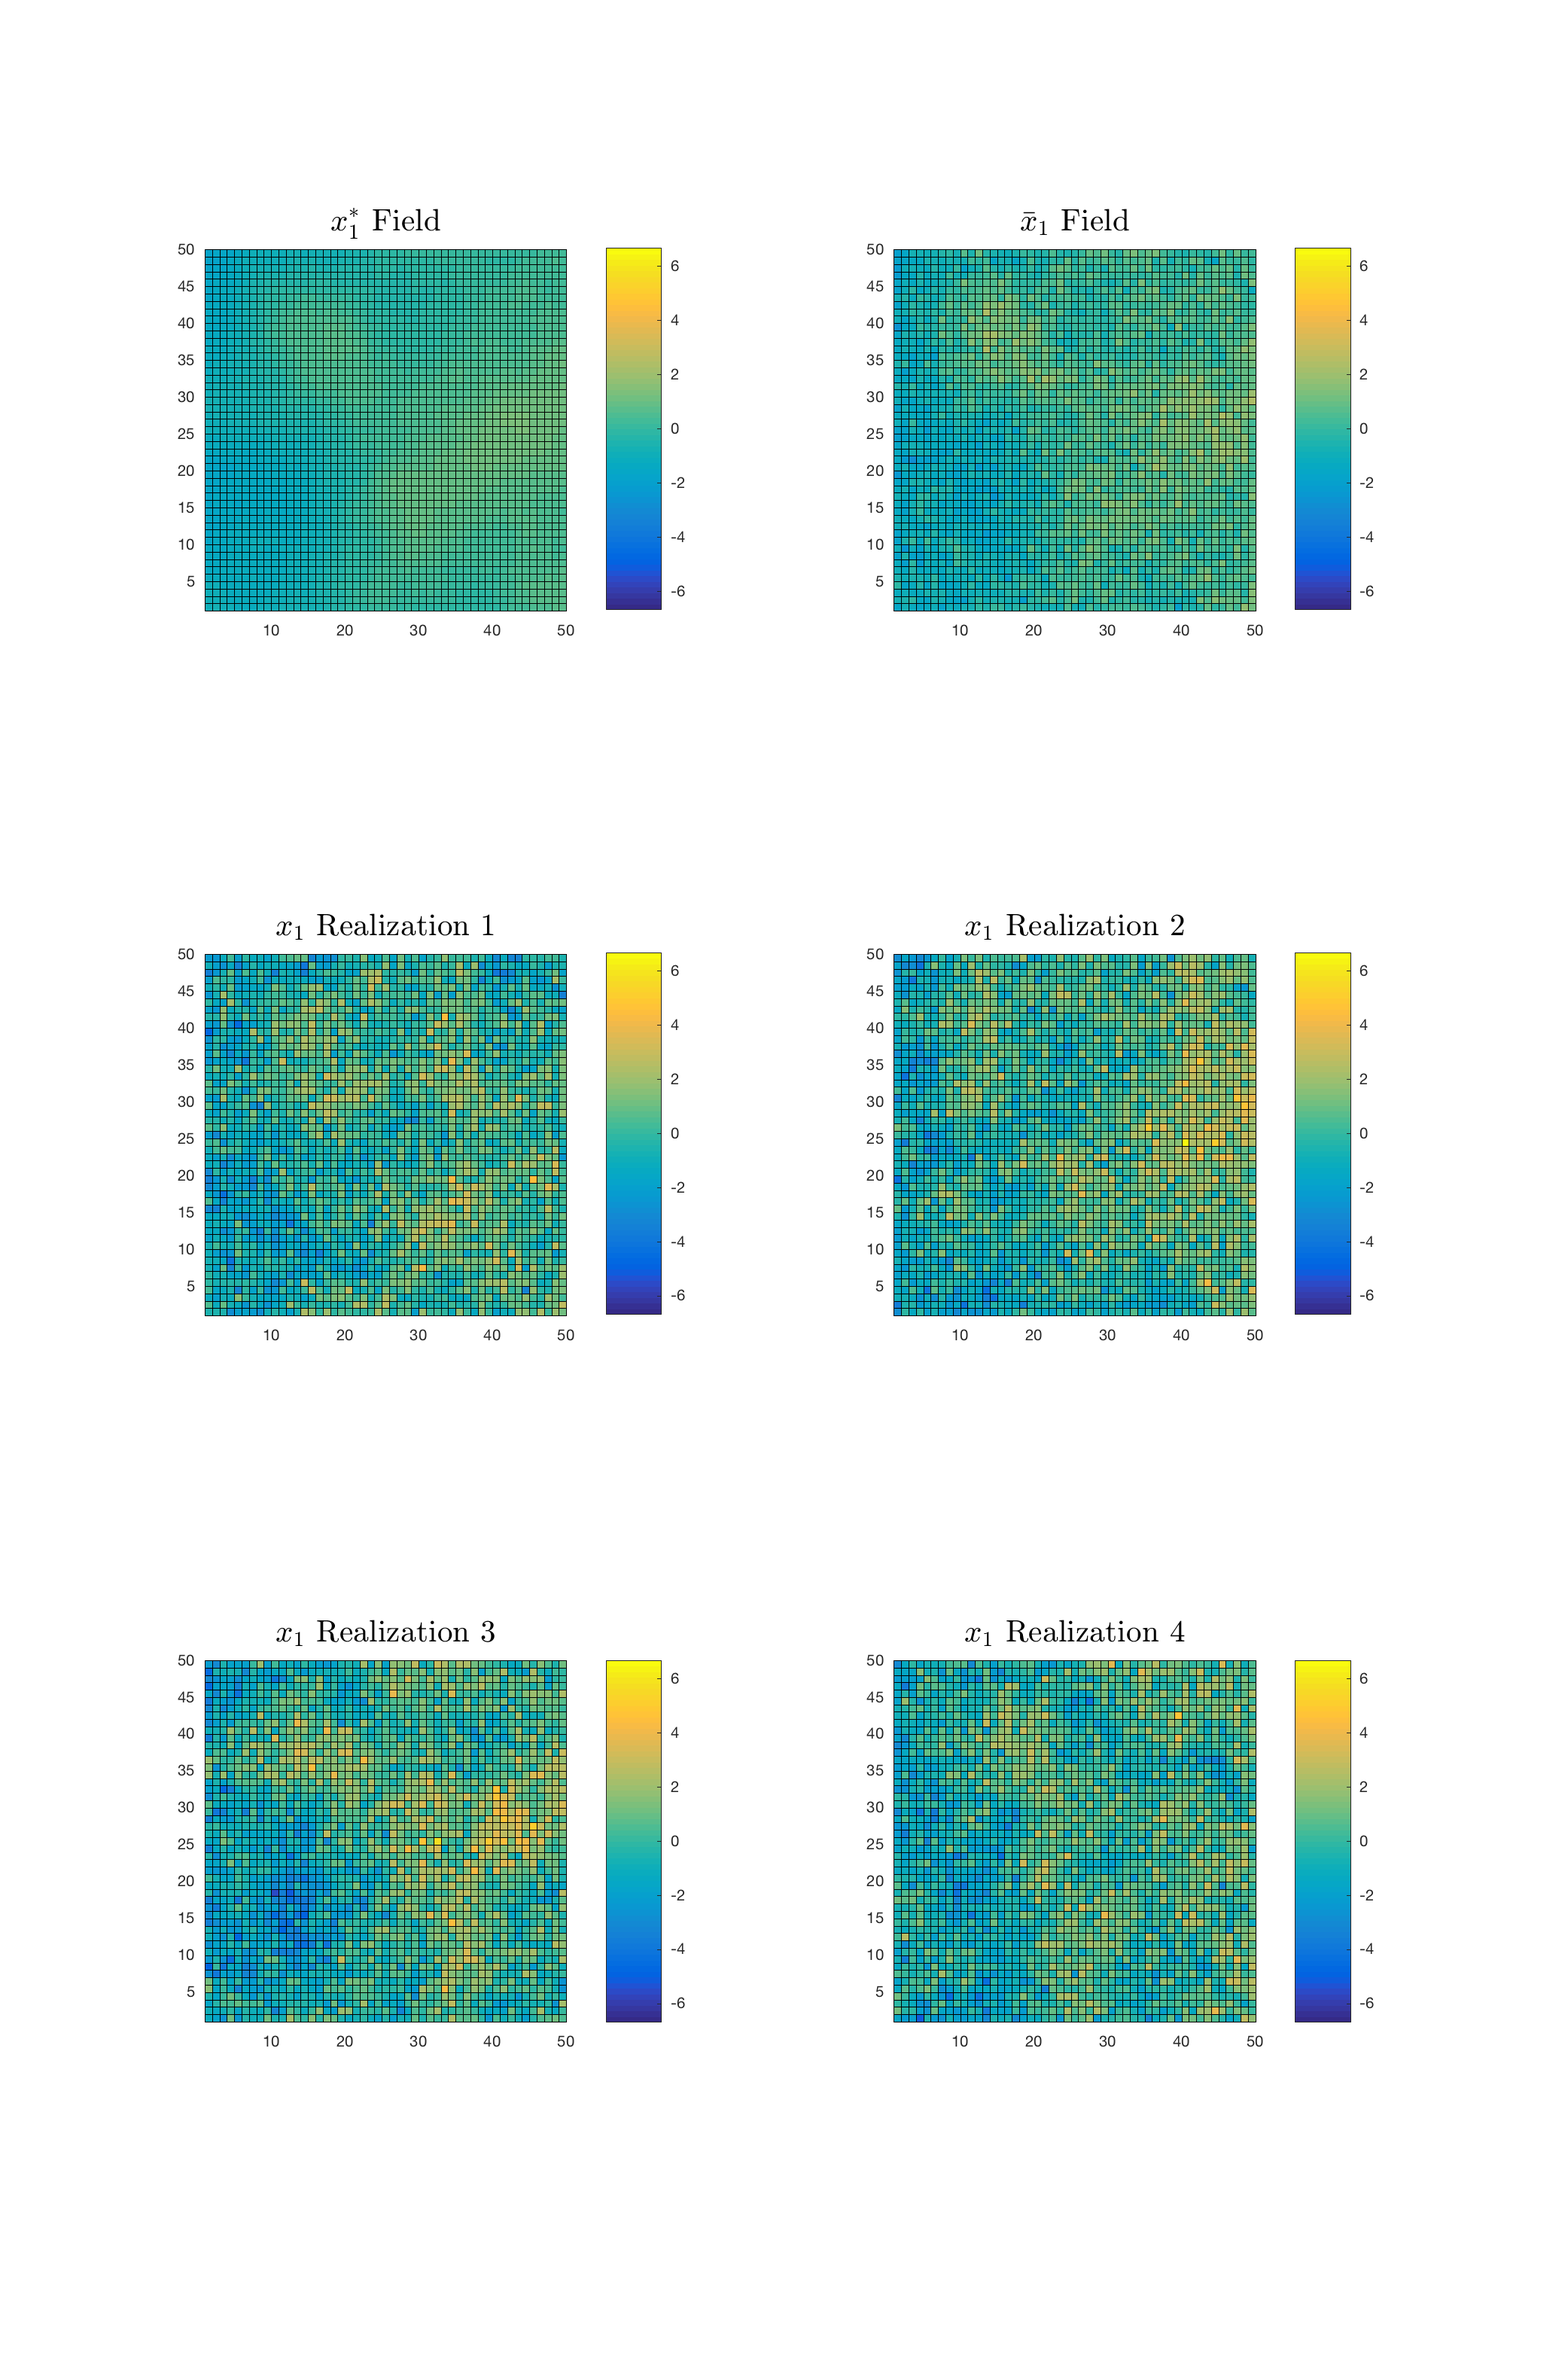
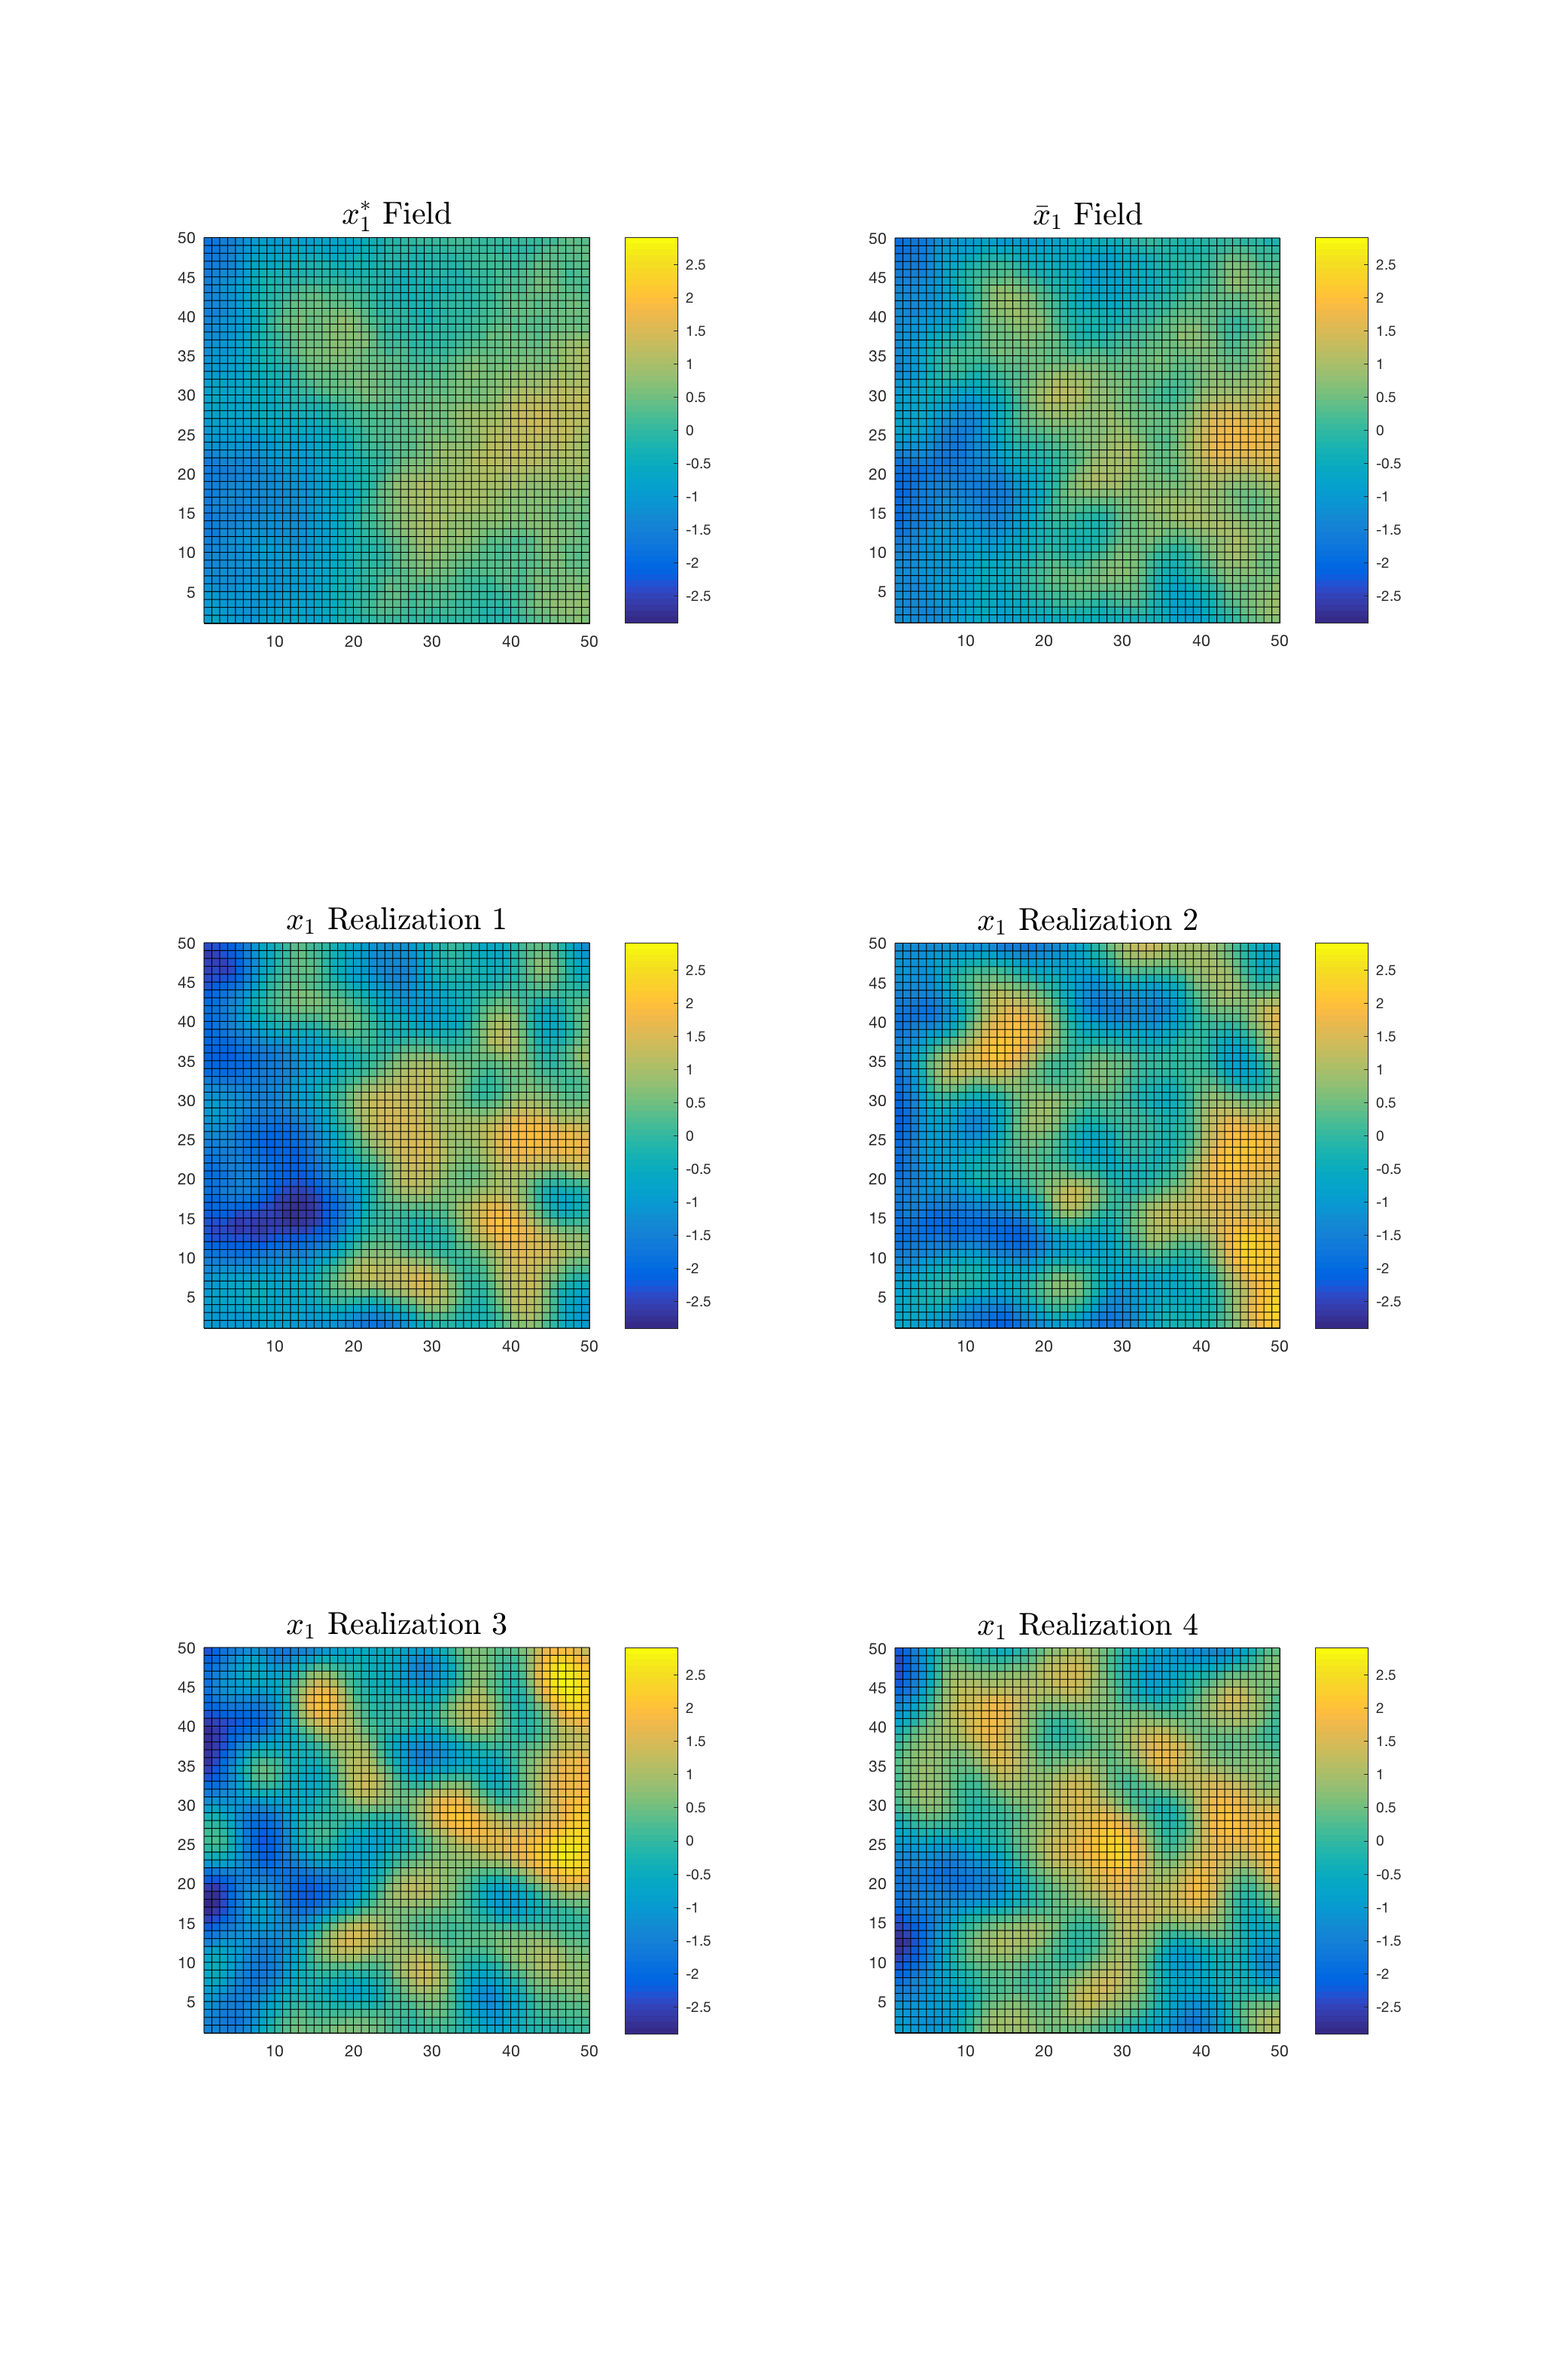
cleaning up code to make plotting run

diff --git a/code/fullProcedure.m b/code/fullProcedure.m
@@ -6,21 +6,18 @@
 % Author: Nathan Lenssen, Columbia University (lenssen@ldeo.columbia.edu)
 % D+A Testbed Version: 1.0.0 (December 6, 2017)
 
-function fullProcedure(plotting,plotDirectory,dataDirectory)
-	% load in the parameter list to the workspace
-	run('code/parameterList.m')
+addpath('code')
 
-	% run the simulation script
-	run('code/generateSimulation.m')
+% load in the parameter list to the workspace
+parameterList
 
-	%run the plotting routine
-	if plotting
-		run('code/makePlots.m')
-	end
+% run the simulation script
+generateSimulation
+
+%run the plotting routine
+if plotting
+	makePlots
+end
 
 	% generate the output file (eventually netcdf for wider distribution)
-	run('code/writeOutput.m')
-
-	% quit matlab at the end of the script
-	quit
-end
+writeOutput

diff --git a/code/parameterList.m b/code/parameterList.m
@@ -6,6 +6,10 @@
 % D+A Testbed Version: 1.0.0 (December 6, 2017)
 
 
+% set paths
+plotDirectory ='figures';
+dataDirectory ='output';
+
 % number of observations (50 x 50 right now)
 q = 50;
 n = q^2;
@@ -19,11 +23,11 @@ nx = 100;
 % the random factor e-value modification
 rng(250); lambda = unifrnd(0.5,1.5,nx,1).^2; % to replicate the figures
 
-% whitening parameter for the noise covariance (0 is iid)
-rho = 0.9;    
+% whitening parameter for the climate variability covariance (0 is iid)
+rho = 1;
 
 % number of ensembles (scaling of eta relative to nu)
-m = 5;        
+m = 5;
 
 % set coefficients
 p = 2;
